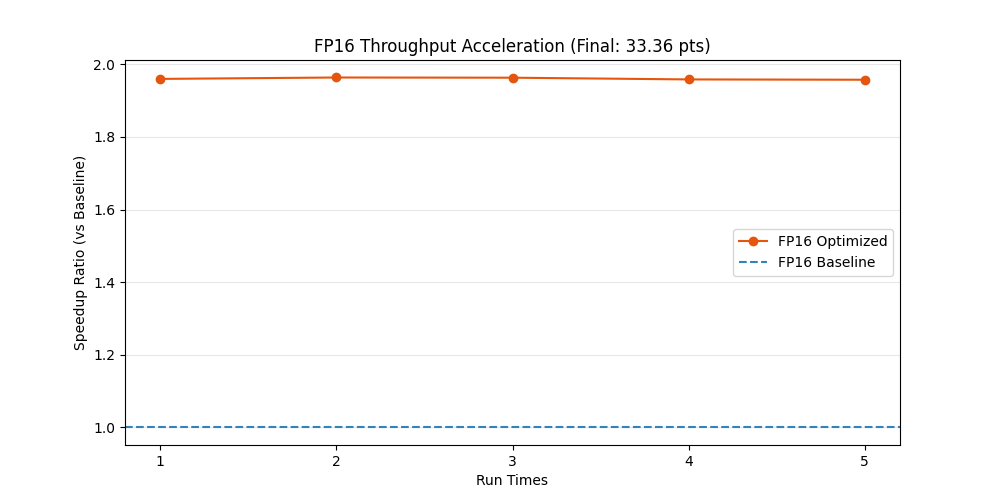
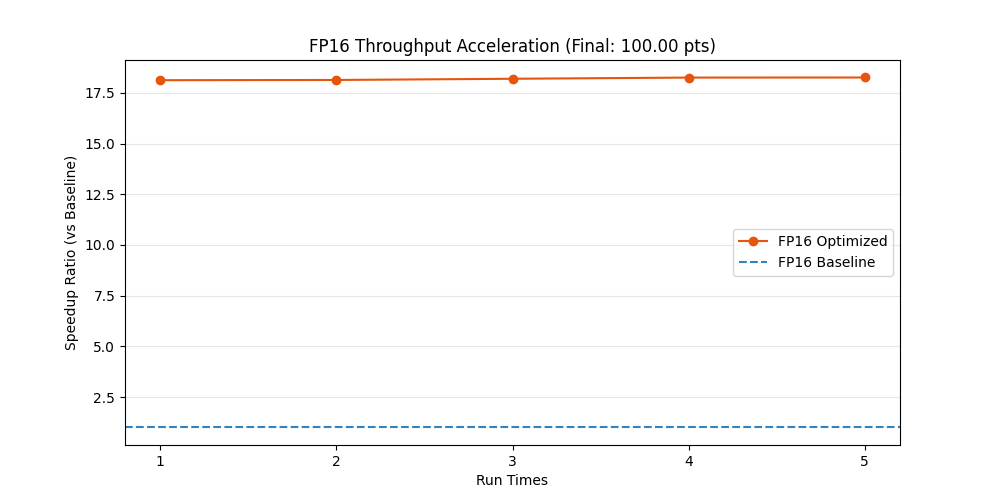
modify inference_fp16.py

diff --git a/inference_fp16.py b/inference_fp16.py
@@ -89,22 +89,20 @@ def process_single_run(model, dataloader, device, run_num, total_runs):
         dynamic_ncols=True
     )
 
-    # 预热逻辑（FP16版本）
-    with torch.no_grad():
-        warmup_tensor = torch.randn(BATCH_SIZE, 3, 32, 32, device=device).half()
+    # 预热逻辑 - 使用autocast而不是手动转换
+    with torch.no_grad(), autocast(device_type='cuda', dtype=torch.float16, enabled=True):
+        warmup_tensor = torch.randn(BATCH_SIZE, 3, 32, 32, device=device)
         for _ in range(3):
-            with autocast(device_type='cuda', dtype=torch.float16):
-                _ = model(warmup_tensor)
+            _ = model(warmup_tensor)
         if torch.cuda.is_available():
             torch.cuda.synchronize()
 
     # 正式推理逻辑
     run_start = time.perf_counter()
-    with torch.no_grad():
+    with torch.no_grad(), autocast(device_type='cuda', dtype=torch.float16, enabled=True):
         for images, _ in progress_bar:
-            images = images.to(device, non_blocking=True).half()
-            with autocast(device_type='cuda', dtype=torch.float16):
-                _ = model(images)
+            images = images.to(device, non_blocking=True)
+            _ = model(images)
             
             current_time = time.perf_counter() - run_start
             current_throughput = (progress_bar.n * BATCH_SIZE) / current_time

diff --git a/modules/resnet_18_baseline_fp16.py b/modules/resnet_18_baseline_fp16.py
@@ -65,4 +65,19 @@ class ResNet(nn.Module):
         return out
 
 def ResNet18():
-    return ResNet(ResidualBlock)
+    model = ResNet(ResidualBlock)
+    
+    # 修改为更安全的精度模式
+    model = model.half()
+
+    # 保持这些层为FP32精度
+    for layer in model.modules():
+        if isinstance(layer, torch.nn.BatchNorm2d):
+            layer.float()
+            # 确保统计数据也使用float
+            if hasattr(layer, 'running_mean'):
+                layer.running_mean = layer.running_mean.float()
+            if hasattr(layer, 'running_var'):
+                layer.running_var = layer.running_var.float()
+    
+    return model
